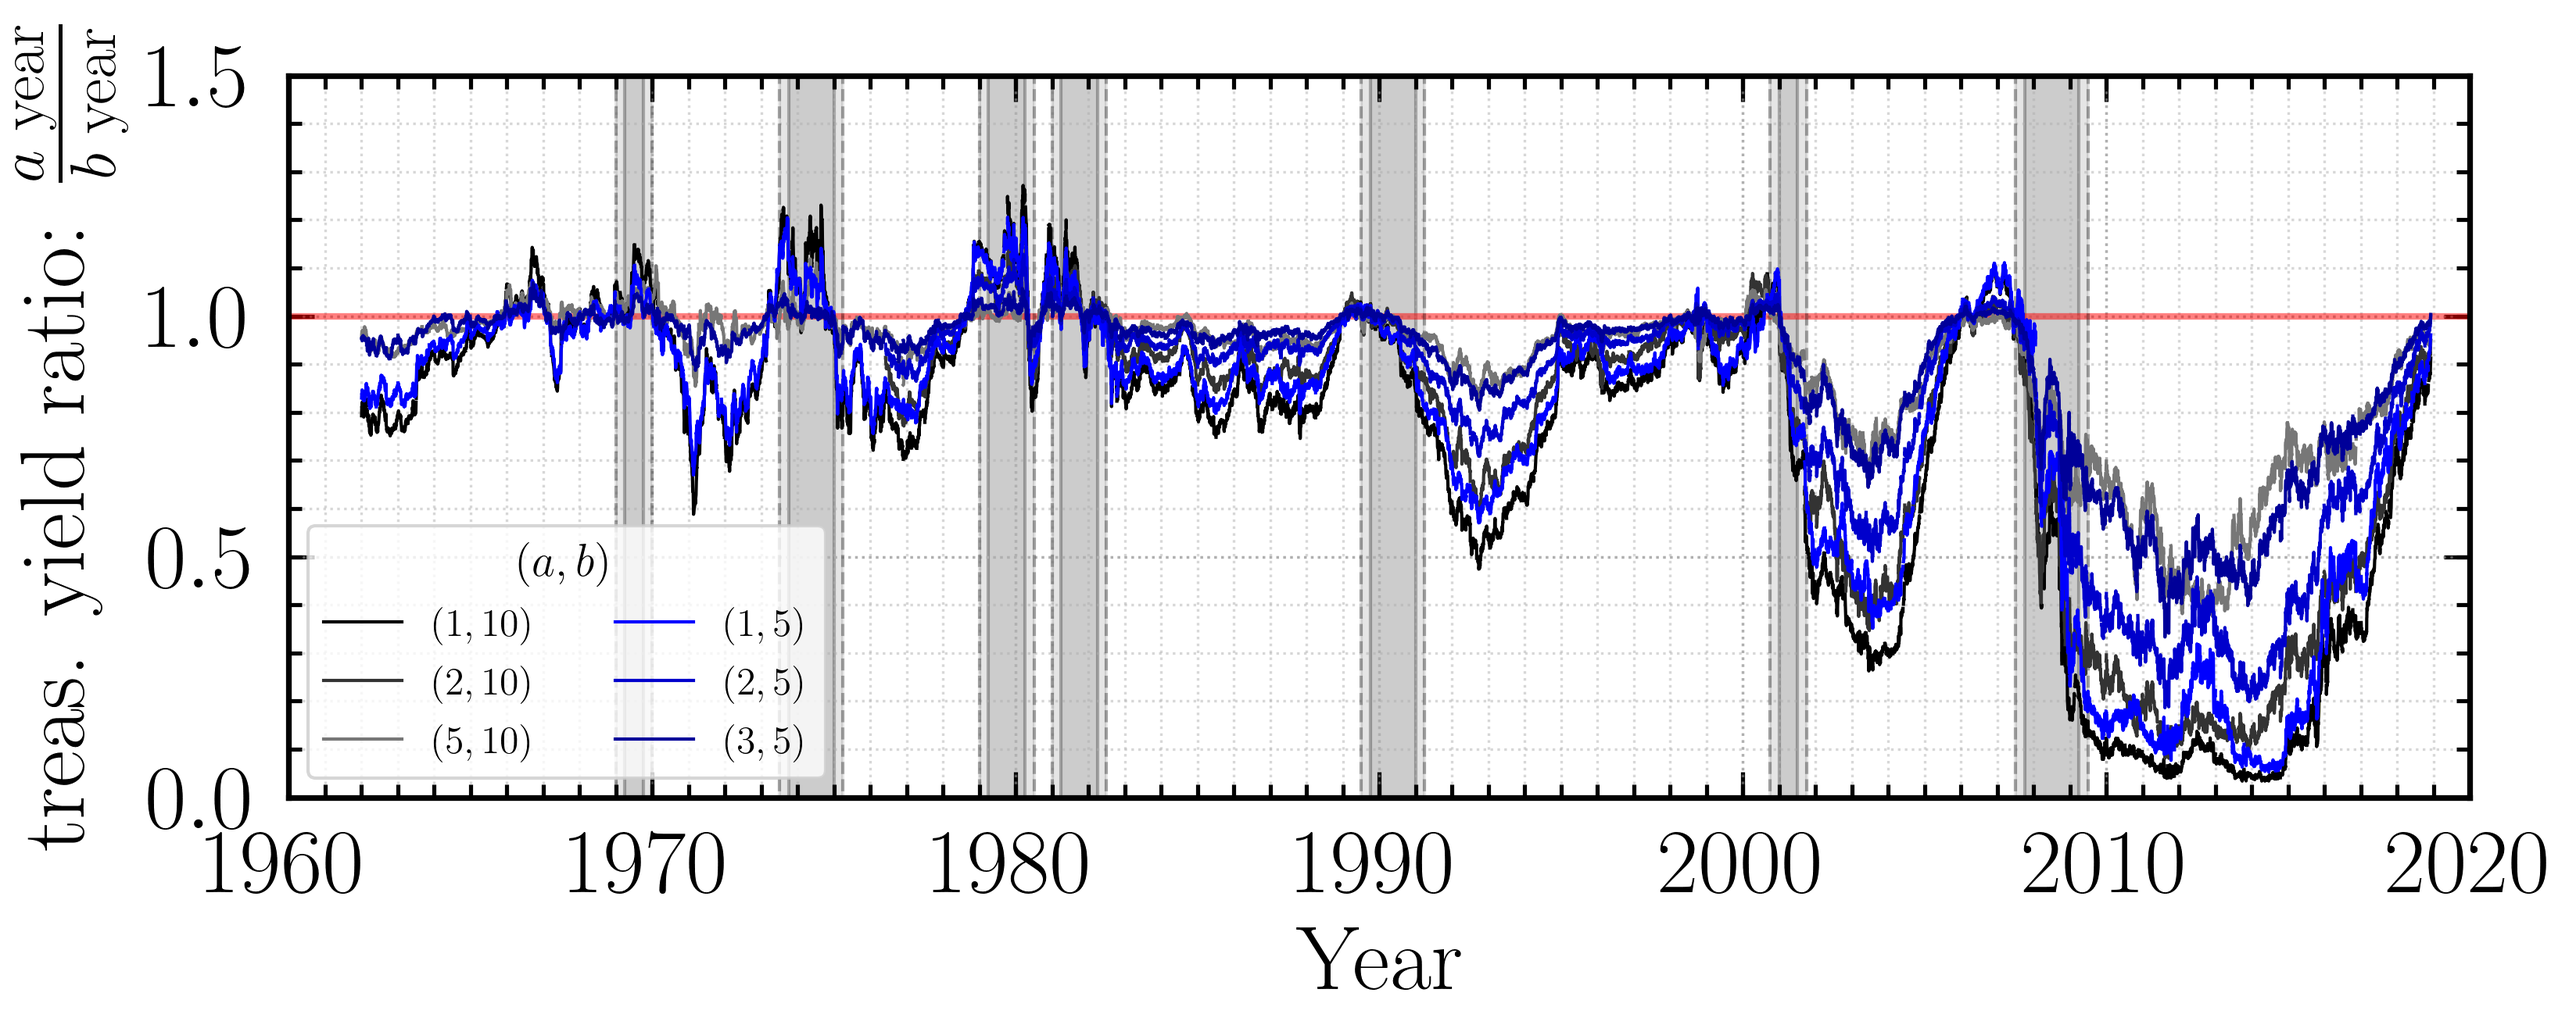
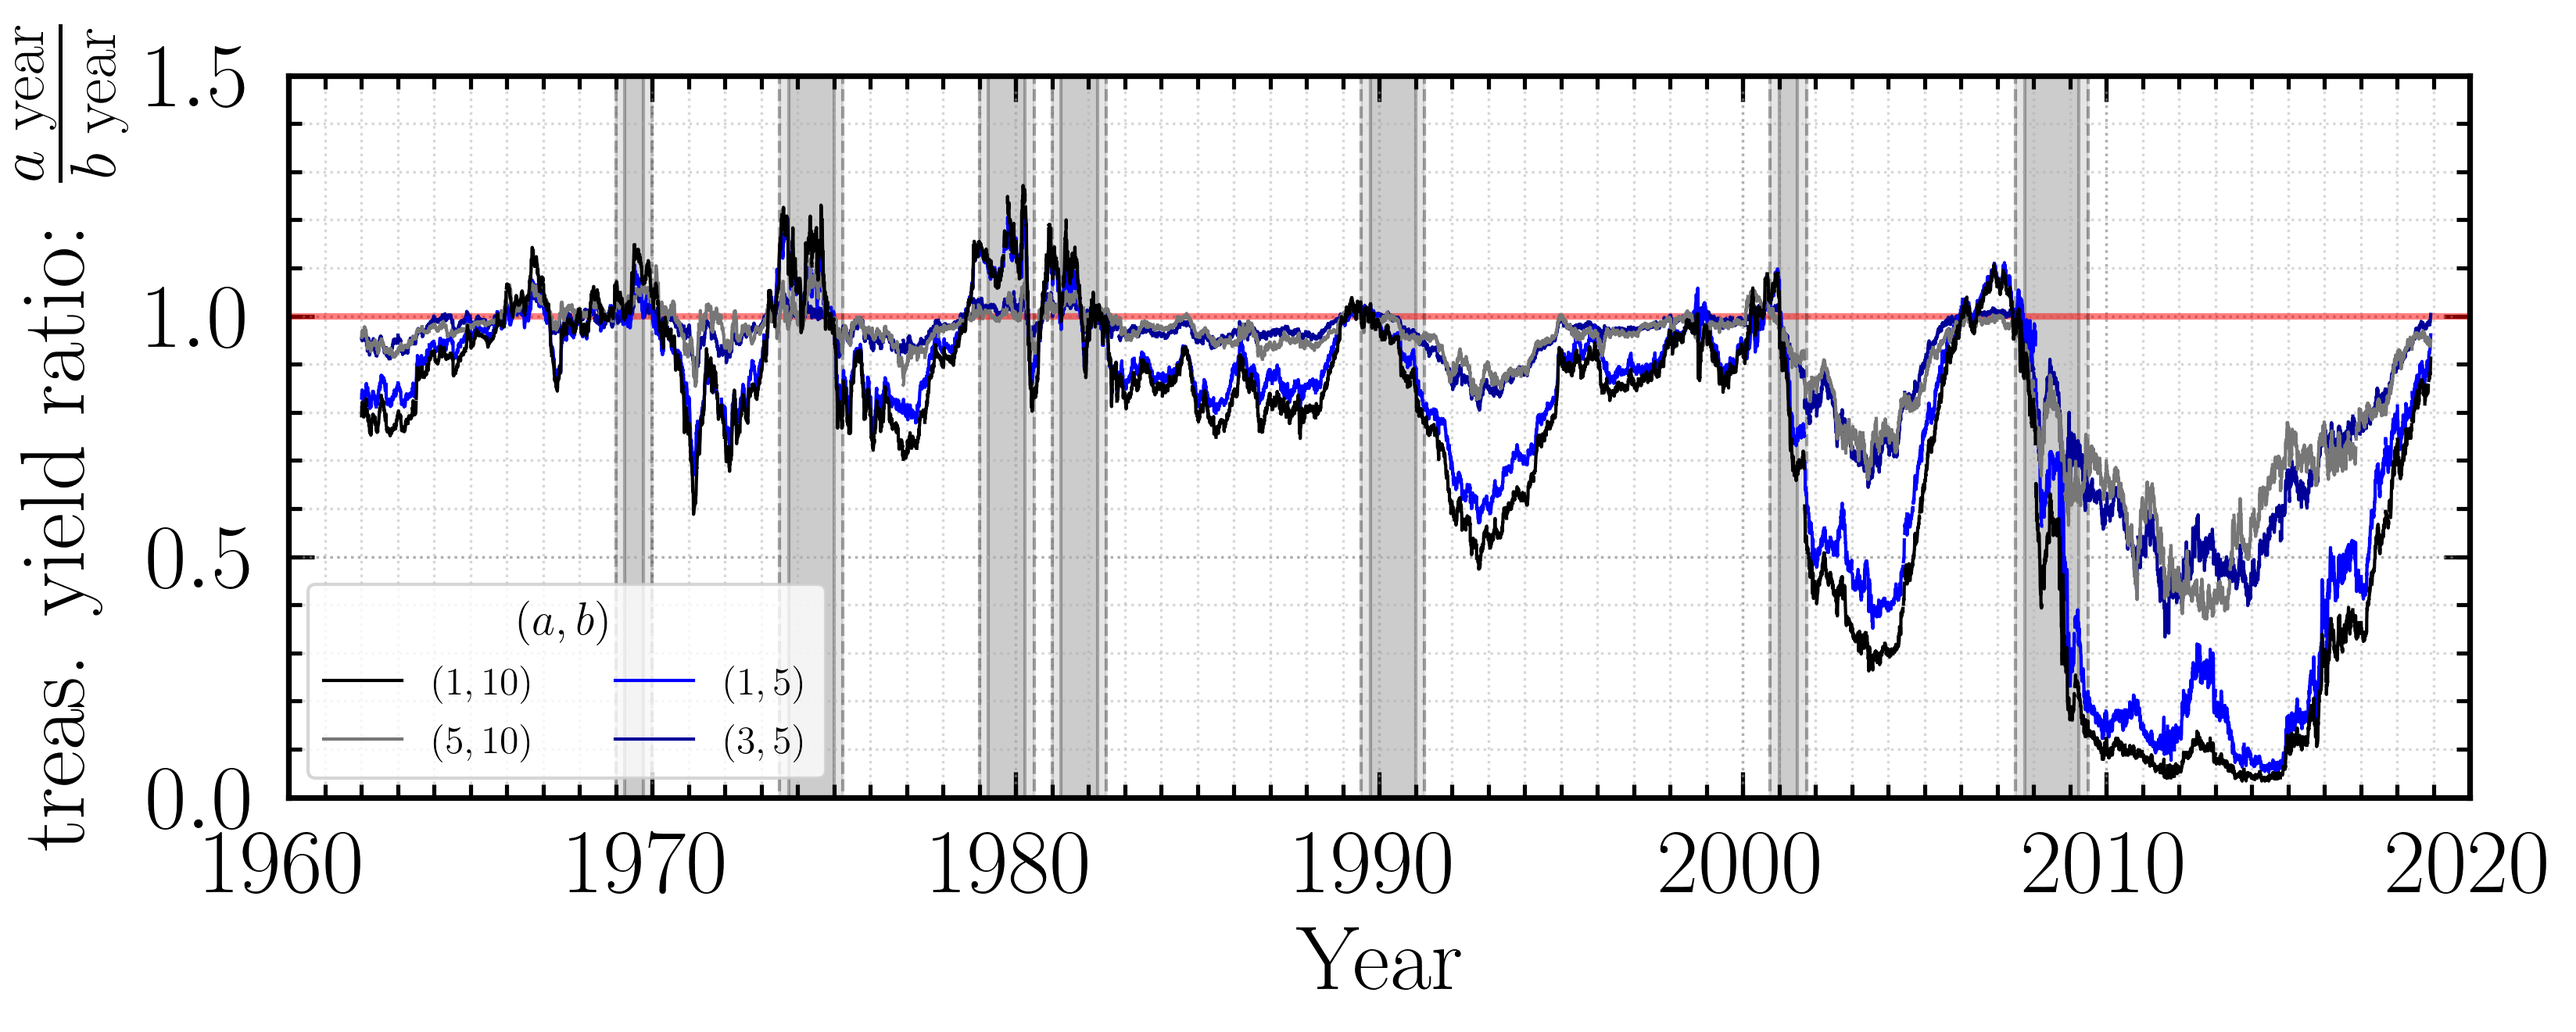
yield inversion

diff --git a/treasury-yields/src/compute-treasury-yields-ratio.py b/treasury-yields/src/compute-treasury-yields-ratio.py
@@ -65,13 +65,13 @@ for recession in recessions:
   fill_betweenx(ext,*recession[1:-1],color='k',alpha=.2)
   fill_betweenx(ext,*recession[-2:],color='k',alpha=.1)
 #plot(df.DATE,df.jratio,'b-')
-plot(df.DATE,df.y1ratio,'-',c='#000000',label='$(1,10)$')#alpha=1.0)
-plot(df.DATE,df.y2ratio,'-',c='#333333',label='$(2,10)$')#alpha=0.7)
-plot(df.DATE,df.y5ratio,'-',c='#777777',label='$(5,10)$')#alpha=0.4)
-plot(df.DATE,df.x1ratio,'-',c='#0000ff',label='$(1, 5)$')#alpha=1.0)
-plot(df.DATE,df.x2ratio,'-',c='#0000cc',label='$(2, 5)$')#alpha=0.7)
-plot(df.DATE,df.x3ratio,'-',c='#000099',label='$(3, 5)$')#alpha=0.4)
-l = legend(fontsize=12,ncol=2,frameon=True,title=r'$(a,b)$')
+plot(df.DATE,df.y1ratio,'-',c='#000000',label='$(1,10)$',zorder=110)#alpha=1.0)
+#plot(df.DATE,df.y2ratio,'-',c='#333333',label='$(2,10)$',zorder=109)#alpha=0.7)
+plot(df.DATE,df.y5ratio,'-',c='#777777',label='$(5,10)$',zorder=108)#alpha=0.4)
+plot(df.DATE,df.x1ratio,'-',c='#0000ff',label='$(1, 5)$',zorder=107)#alpha=1.0)
+#plot(df.DATE,df.x2ratio,'-',c='#0000cc',label='$(2, 5)$',zorder=106)#alpha=0.7)
+plot(df.DATE,df.x3ratio,'-',c='#000099',label='$(3, 5)$',zorder=105)#alpha=0.4)
+l = legend(loc='lower left',fontsize=12,ncol=2,frameon=True,title=r'$(a,b)$')
 setp(l.get_title(),fontsize=14)
 xlabel(r'Year')
 ylabel(r'treas. yield ratio: $\frac{a\textrm{ year}}{b\textrm{ year}}$')
